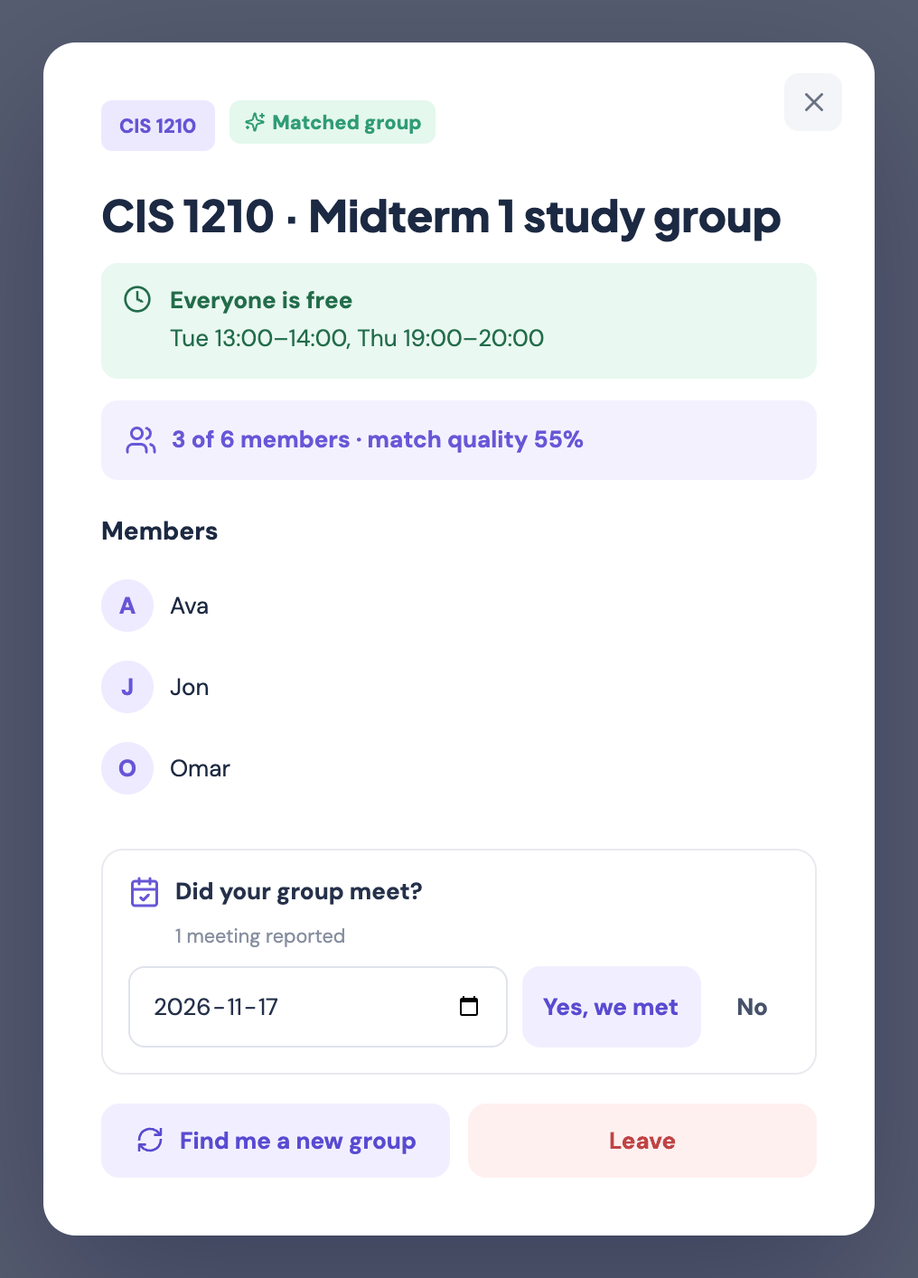
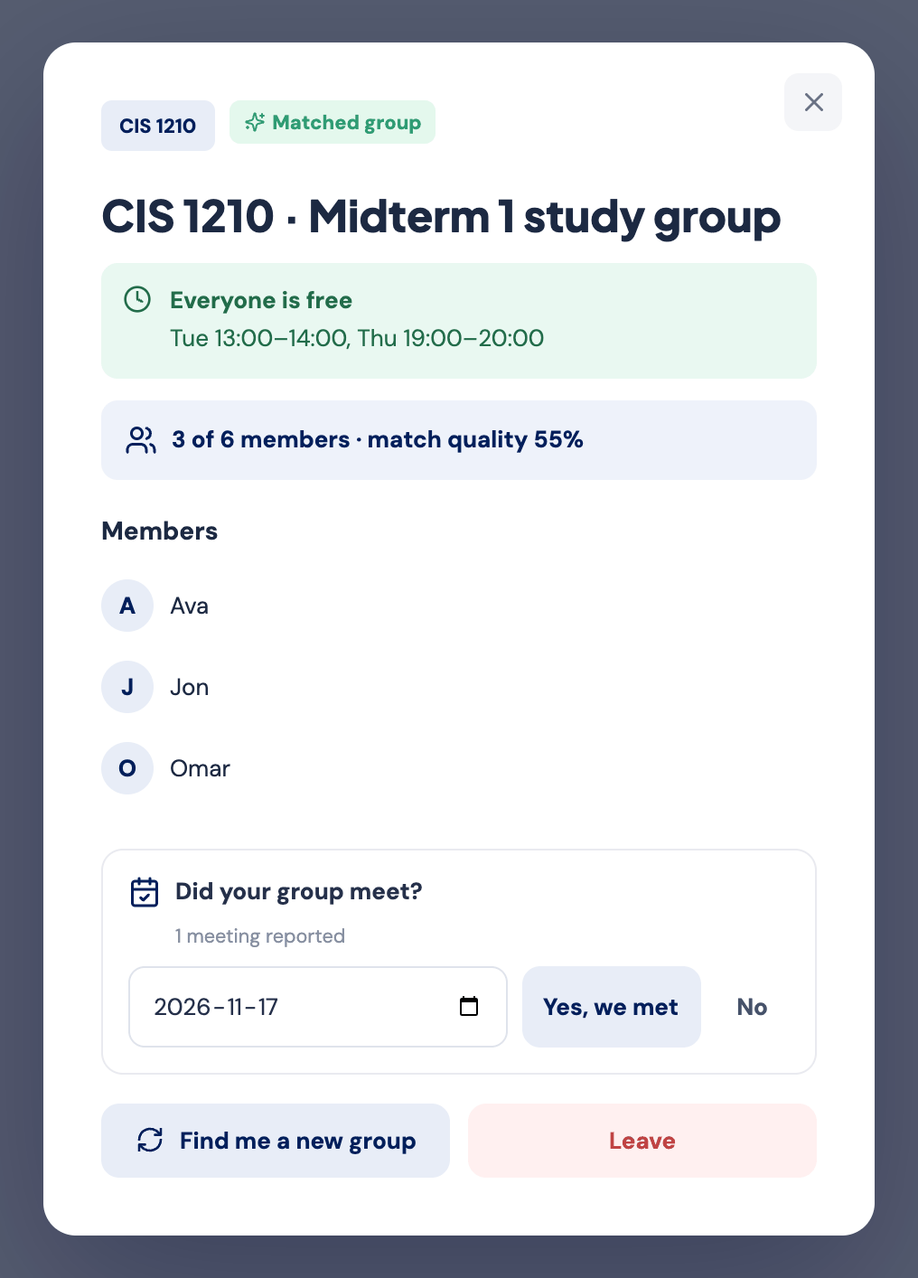
Switch to Penn red and blue color scheme

diff --git a/frontend/src/styles.css b/frontend/src/styles.css
@@ -1,5 +1,5 @@
 @import url('https://fonts.googleapis.com/css2?family=DM+Sans:wght@400;500;600;700;800&family=Plus+Jakarta+Sans:wght@400;500;600;700;800&display=swap');
-:root{font-family:'DM Sans',sans-serif;color:#1c2942;background:#f9fafc;font-synthesis:none}*{box-sizing:border-box}body{margin:0}button,input,select,textarea{font:inherit}button{cursor:pointer}button:disabled{cursor:not-allowed;opacity:.5}a{text-decoration:none;color:inherit}.container{max-width:1160px;margin:auto;padding:0 26px}.topbar{background:#fff;border-bottom:1px solid #e8eaf0}.nav{height:78px;display:flex;align-items:center;gap:50px}.brand{display:inline-flex;align-items:center;gap:8px;font-family:'Plus Jakarta Sans',sans-serif;font-size:21px;font-weight:800;white-space:nowrap;letter-spacing:-.7px}.brand>span:last-child{color:#6858dc;margin-left:-8px}.brand-icon{background:#6957dc;color:white;border-radius:11px;width:38px;height:38px;display:inline-flex;align-items:center;justify-content:center}.nav nav{display:flex;gap:28px}.nav-link{border:0;background:none;color:#647086;font-size:14px;font-weight:700;padding:12px 0}.nav-link.active{color:#6253d6}.nav-actions{display:flex;align-items:center;gap:10px;margin-left:auto}.hello{display:flex;align-items:center;gap:6px;font-size:13px;color:#59647b}.btn{border:0;display:inline-flex;align-items:center;justify-content:center;gap:9px;border-radius:10px;padding:12px 18px;font-weight:700;font-size:13px;transition:transform .15s,background .15s}.btn:hover:not(:disabled){transform:translateY(-1px)}.primary{background:#6958df;color:#fff;box-shadow:0 4px 10px #6958df22}.primary:hover{background:#5847cd}.ghost{background:transparent;color:#46526a}.secondary{background:#f1efff;color:#594bd1}.white{background:#fff;color:#5d4bcb}.outline-white{border:1px solid #ffffff65;color:#fff;background:#ffffff12}.hero{background:linear-gradient(115deg,#443a9e 0%,#6251c4 55%,#7e69d8 100%);overflow:hidden;color:#fff}.hero-inner{min-height:392px;display:flex;align-items:center;justify-content:space-between;gap:35px}.hero-content{padding:50px 0;max-width:600px}.eyebrow{display:inline-flex;gap:8px;align-items:center;background:#ffffff24;border:1px solid #ffffff25;padding:8px 13px;border-radius:25px;font-size:12px;font-weight:700;letter-spacing:.3px}.hero h1{font:800 clamp(36px,4.5vw,55px)/1.17 'Plus Jakarta Sans',sans-serif;letter-spacing:-2px;margin:22px 0 17px}.hero h1 em{font-style:normal;color:#c6c2ff}.hero p{font-size:16px;line-height:1.75;color:#e6e3ff;max-width:480px}.hero-buttons{display:flex;gap:12px;margin-top:26px}.hero-art{position:relative;min-width:350px;height:330px;display:grid;place-items:center}.orbit{width:210px;height:210px;background:#ffffff16;border:2px solid #ffffff40;border-radius:50%;display:grid;place-items:center;position:relative;box-shadow:0 0 0 28px #ffffff0a,0 0 0 60px #ffffff07}.orbit-bubble{position:absolute;background:#fff;color:#6858d7;width:50px;height:50px;border-radius:15px;display:grid;place-items:center;box-shadow:0 12px 30px #2015683d}.bubble-one{top:-20px;right:-15px}.bubble-two{bottom:-18px;left:-20px}.floating-card{position:absolute;background:#fff;color:#27304c;border-radius:13px;box-shadow:0 18px 40px #24136e3d;display:flex;gap:12px;align-items:center;padding:14px 16px;z-index:2}.floating-card strong{display:block;font-size:12px}.floating-card small{display:block;color:#8990a2;font-size:10px;margin-top:3px}.card-one{top:25px;left:0}.card-two{bottom:12px;right:0}.avatar{display:grid;place-items:center;width:35px;height:35px;border-radius:10px;background:#ebe8ff;color:#6d59dc;font-weight:800}.status-dot{background:#48c59a;width:9px;height:9px;border-radius:50%}.avatars{display:flex;padding-left:7px}.avatars i{display:grid;place-items:center;font-style:normal;font-size:10px;font-weight:700;width:27px;height:27px;margin-left:-7px;border:2px solid #fff;border-radius:50%;background:#f5d4c7;color:#934d46}.avatars i:nth-child(2){background:#d9d2fc;color:#5947a5}.avatars i:nth-child(3){background:#bde8d8;color:#30785d}.stats{display:flex;justify-content:center;gap:0;padding-top:28px;padding-bottom:28px;background:#fff;border-radius:0 0 16px 16px;box-shadow:0 8px 28px #20294507}.stats>div{flex:1;display:flex;align-items:center;justify-content:center;gap:13px;border-right:1px solid #e9eaf0}.stats>div:last-child{border:0}.stats strong{font-size:25px;font-weight:800;color:#6554d7}.stats span{font-size:12px;color:#8790a2}.discovery{padding-top:64px;padding-bottom:90px}.section-heading{display:flex;justify-content:space-between;align-items:end;gap:20px}.section-kicker{color:#7361dc;font-size:11px;font-weight:800;letter-spacing:1.7px}.section-heading h2{font:800 31px 'Plus Jakarta Sans',sans-serif;letter-spacing:-1.1px;margin:10px 0}.section-heading p{color:#8790a1;font-size:14px;margin:0}.filters{display:flex;gap:14px;margin:30px 0 23px}.search{display:flex;align-items:center;gap:12px;background:#fff;border:1px solid #e5e8ef;border-radius:10px;padding:0 15px;flex:1;color:#8b95a8}.search input{border:0;outline:0;padding:15px 0;width:100%;font-size:13px}.filters select{background:#fff;border:1px solid #e5e8ef;border-radius:10px;padding:0 15px;color:#546078;max-width:300px;font-size:13px}.group-grid{display:grid;grid-template-columns:repeat(3,1fr);gap:20px}.group-card{background:#fff;border:1px solid #e9eaf0;border-radius:16px;padding:23px;box-shadow:0 5px 20px #18243b05;transition:transform .15s,box-shadow .15s}.group-card:hover{transform:translateY(-3px);box-shadow:0 12px 28px #18243b12}.card-top{display:flex;justify-content:space-between;align-items:center}.course-pill{display:inline-block;font-size:11px;font-weight:800;padding:7px 10px;border-radius:6px;background:#ece9ff;color:#6554d5}.color-1{background:#e7f5ff;color:#3179bd}.color-2{background:#e4f8ed;color:#268b61}.color-3{background:#fff2e6;color:#c37b2b}.date{font-size:11px;color:#a2a9b8}.card-icon{display:grid;place-items:center;background:#f3f0ff;color:#725ddd;border-radius:12px;width:48px;height:48px;margin-top:24px}.group-card h3{font:800 18px 'Plus Jakarta Sans',sans-serif;margin:17px 0 8px;letter-spacing:-.3px}.group-card p{color:#8790a2;font-size:13px;line-height:1.7;min-height:44px;display:-webkit-box;-webkit-line-clamp:2;-webkit-box-orient:vertical;overflow:hidden}.card-bottom{display:flex;justify-content:space-between;align-items:center;border-top:1px solid #f0f1f5;padding-top:18px;margin-top:18px}.members{display:flex;align-items:center;gap:7px;color:#8993a4;font-size:12px}.view-link{display:flex;align-items:center;gap:5px;border:0;background:none;color:#6857d7;font-size:12px;font-weight:800}.empty{text-align:center;padding:70px 20px;background:#fff;border:1px dashed #d8d9e6;border-radius:16px;color:#8992a2}.empty svg{color:#7967df}.empty h3{color:#25304a}.pagination{display:flex;justify-content:center;align-items:center;gap:20px;margin-top:30px;font-size:13px}.pagination button{border:1px solid #e4e6ed;background:#fff;border-radius:8px;padding:9px 12px;display:flex;align-items:center;gap:4px}footer{background:#fff;border-top:1px solid #e9eaf0}.footer-inner{display:flex;justify-content:space-between;align-items:center;gap:15px;padding-top:25px;padding-bottom:25px;color:#98a0ad;font-size:12px}.footer-inner .brand{color:#26304a;font-size:16px}.footer-inner .brand-icon{width:29px;height:29px;border-radius:8px}.alert{display:flex;justify-content:space-between;align-items:center;padding:12px 15px;margin:15px 0;border-radius:8px;font-size:13px}.alert button{background:none;border:0}.alert.success{background:#e6f8ed;color:#226c4a}.alert.danger{background:#fff0f0;color:#ad3535}.modal-backdrop{position:fixed;inset:0;background:#17203ab8;z-index:10;display:grid;place-items:center;padding:20px;overflow-y:auto}.modal{position:relative;background:#fff;border-radius:18px;padding:32px;width:min(100%,460px);max-height:92vh;overflow:auto;box-shadow:0 30px 90px #0e123b60}.close{position:absolute;right:18px;top:17px;border:0;background:#f4f5f8;color:#697184;border-radius:8px;width:32px;height:32px;display:grid;place-items:center}.close svg{width:17px}.modal-mark{width:48px;height:48px;border-radius:13px;background:#eeeaff;color:#6754d7;display:grid;place-items:center}.modal h2{font:800 24px 'Plus Jakarta Sans',sans-serif;margin:18px 0 7px}.modal>p{color:#8992a2;font-size:13px;line-height:1.6;margin-bottom:22px}.modal form{display:grid;gap:15px}.modal form label{display:grid;gap:7px;font-size:12px;font-weight:700;color:#4b5770}.modal input,.modal textarea,.modal select{width:100%;border:1px solid #dfe3ec;border-radius:9px;padding:12px;color:#25304a;background:#fff;outline-color:#7968dd;font-size:13px}.full{width:100%;margin-top:7px}.switch{text-align:center;font-size:12px;color:#8791a3;margin-top:23px}.switch button{border:0;background:none;color:#6957d8;font-weight:800}.detail-title{margin-top:20px!important}.detail-info{display:flex;gap:8px;align-items:center;color:#6757d7;font-size:13px;font-weight:700;padding:13px;background:#f4f1ff;border-radius:9px}.modal h4{font-size:14px;margin-bottom:10px}.member-list{max-height:170px;overflow:auto;margin-bottom:22px}.member-list>div{display:flex;align-items:center;gap:9px;font-size:13px;padding:8px 0}.member-avatar{width:29px;height:29px;border-radius:50%;background:#eeeaff;color:#6755d7;display:grid;place-items:center;font-weight:800}.owner-tag{margin-left:auto;color:#8069d8;background:#f1edff;padding:4px 8px;border-radius:6px;font-size:10px}.detail-actions{display:flex;gap:10px}.detail-actions .btn{flex:1}.danger-btn{background:#fff0f0;color:#c04444}@media(max-width:900px){.hero-art{min-width:260px;transform:scale(.85)}.nav{gap:20px}.group-grid{grid-template-columns:repeat(2,1fr)}.hello{display:none}}@media(max-width:650px){.container{padding-left:18px;padding-right:18px}.nav{height:auto;min-height:68px;flex-wrap:wrap;padding-top:10px;padding-bottom:10px;gap:8px}.nav nav{order:3;width:100%;justify-content:center}.nav-actions{gap:2px}.nav-actions .btn{padding:9px;font-size:11px}.brand{font-size:17px}.hero-inner{min-height:auto}.hero-content{padding:55px 0}.hero-art{display:none}.hero h1{font-size:38px}.hero-buttons{flex-wrap:wrap}.stats{gap:8px}.stats>div{display:block;text-align:center;padding:5px}.stats strong{display:block;font-size:20px}.stats span{font-size:10px}.discovery{padding-top:42px}.section-heading h2{font-size:25px}.section-heading .create{padding:10px;font-size:11px}.filters{flex-direction:column}.filters select{max-width:none;padding:14px}.group-grid{grid-template-columns:1fr}.footer-inner{flex-wrap:wrap}.footer-inner>span:nth-child(2){display:none}}
-.match,.impact,.admin{padding-top:56px;padding-bottom:40px}.match-form{display:grid;grid-template-columns:minmax(0,340px) minmax(0,1fr);gap:28px;margin-top:26px;background:#fff;border:1px solid #e9eaf0;border-radius:16px;padding:26px}.match-fields{display:grid;gap:16px;align-content:start;min-width:0}.match-fields label{display:grid;gap:7px;font-size:12px;font-weight:700;color:#4b5770}.match-fields select{width:100%;min-width:0;text-overflow:ellipsis;border:1px solid #dfe3ec;border-radius:9px;padding:11px;background:#fff;color:#25304a}.segmented{display:flex;border:1px solid #dfe3ec;border-radius:9px;overflow:hidden}.segmented button{flex:1;border:0;background:#fff;padding:9px 6px;font-size:12px;color:#59647b;border-right:1px solid #eef0f4}.segmented button:last-child{border-right:0}.segmented button.on{background:#6958df;color:#fff;font-weight:700}.hint{color:#9aa1b0;font-size:11px}.exam-note{display:flex;gap:8px;align-items:center;background:#fff7e9;color:#9a6418;border-radius:9px;padding:10px 12px;font-size:12px;font-weight:600}.grid-label{font-size:12px;font-weight:700;color:#4b5770;margin-bottom:8px}.avail{display:grid;gap:3px;user-select:none;touch-action:none}.avail-row{display:grid;grid-template-columns:34px repeat(7,1fr);gap:3px}.avail-head span{font-size:11px;font-weight:700;color:#7d8699;text-align:center}.avail-hour{font-size:10px;color:#9aa1b0;text-align:right;padding-right:6px;line-height:18px}.cell{height:18px;border:0;border-radius:4px;background:#f1f2f6;padding:0}.cell:hover{background:#e2defc}.cell.on{background:#6958df}.cell:focus-visible{outline:2px solid #6958df;outline-offset:1px}.avail-count{color:#8790a2;font-size:11px;margin-top:6px}.request-list{display:grid;gap:10px;margin-top:22px}.request-card{display:flex;justify-content:space-between;align-items:center;gap:14px;flex-wrap:wrap;background:#fff;border:1px solid #e9eaf0;border-left:4px solid #c3bcf5;border-radius:12px;padding:14px 16px}.request-card.matched{border-left-color:#48c59a}.request-main{display:flex;gap:12px;align-items:center;font-size:14px}.request-main svg{color:#6958df}.request-card.matched .request-main svg{color:#2f9c74}.request-main small{display:block;color:#8790a2;font-size:12px;margin-top:3px}.request-actions{display:flex;gap:6px;flex-wrap:wrap}.request-actions .btn{padding:9px 12px}.match-tag{display:inline-flex;align-items:center;gap:4px;font-size:11px;font-weight:800;color:#2f9c74;background:#e4f8ed;border-radius:6px;padding:5px 8px}.match-tag.inline{margin-left:8px}.shared-time{display:flex;gap:10px;align-items:flex-start;background:#e9f8f1;color:#226c4a;border-radius:9px;padding:12px;margin:12px 0;font-size:13px}.shared-time strong,.shared-time span{display:block}.shared-time span{margin-top:3px;line-height:1.5}.checkin{border:1px solid #e9eaf0;border-radius:12px;padding:14px;margin-bottom:16px;font-size:13px}.checkin>div:first-child{display:flex;gap:8px;align-items:center;flex-wrap:wrap;color:#6757d7}.checkin strong{color:#25304a}.checkin small{color:#8790a2;width:100%;padding-left:26px}.checkin-row{display:flex;gap:8px;margin-top:10px}.checkin-row input{flex:1;min-width:0}.checkin-row .btn{padding:10px 12px}.full.secondary{width:100%}.modal.wide{width:min(100%,640px)}.metric-grid{display:grid;grid-template-columns:repeat(4,1fr);gap:16px;margin-top:26px}.metric{background:#fff;border:1px solid #e9eaf0;border-radius:14px;padding:20px}.metric strong{display:block;font:800 30px 'Plus Jakarta Sans',sans-serif;color:#6554d7}.metric span{display:block;font-size:13px;font-weight:700;margin-top:6px}.metric small{display:block;color:#8790a2;font-size:11px;margin-top:6px;line-height:1.5}.algo-card{background:#fff;border:1px solid #e9eaf0;border-radius:14px;padding:22px;margin-top:16px}.algo-card h3{margin:0 0 8px;font:800 17px 'Plus Jakarta Sans',sans-serif}.algo-card p{color:#6b7488;font-size:13px;line-height:1.7;margin:0}.algo-stats{display:grid;gap:8px;margin-top:14px;font-size:13px}.algo-stats span{display:inline-block;min-width:170px;color:#8790a2}.algo-stats em{font-style:normal;color:#2f9c74;font-weight:800;margin-left:6px}.muted{margin-top:10px!important}.admin-form{display:flex;gap:8px;flex-wrap:wrap;margin:20px 0}.admin-form select,.admin-form input{border:1px solid #dfe3ec;border-radius:9px;padding:10px;background:#fff}.table-wrap{overflow-x:auto;background:#fff;border:1px solid #e9eaf0;border-radius:12px}.runs{border-collapse:collapse;width:100%;font-size:12px;white-space:nowrap}.runs th,.runs td{padding:9px 12px;text-align:left;border-bottom:1px solid #f0f1f5}.runs th{color:#7d8699;font-weight:700}
+:root{font-family:'DM Sans',sans-serif;color:#1c2942;background:#f9fafc;font-synthesis:none}*{box-sizing:border-box}body{margin:0}button,input,select,textarea{font:inherit}button{cursor:pointer}button:disabled{cursor:not-allowed;opacity:.5}a{text-decoration:none;color:inherit}.container{max-width:1160px;margin:auto;padding:0 26px}.topbar{background:#fff;border-bottom:1px solid #e8eaf0}.nav{height:78px;display:flex;align-items:center;gap:50px}.brand{display:inline-flex;align-items:center;gap:8px;font-family:'Plus Jakarta Sans',sans-serif;font-size:21px;font-weight:800;white-space:nowrap;letter-spacing:-.7px}.brand>span:last-child{color:#990000;margin-left:-8px}.brand-icon{background:#990000;color:white;border-radius:11px;width:38px;height:38px;display:inline-flex;align-items:center;justify-content:center}.nav nav{display:flex;gap:28px}.nav-link{border:0;background:none;color:#647086;font-size:14px;font-weight:700;padding:12px 0}.nav-link.active{color:#990000}.nav-actions{display:flex;align-items:center;gap:10px;margin-left:auto}.hello{display:flex;align-items:center;gap:6px;font-size:13px;color:#59647b}.btn{border:0;display:inline-flex;align-items:center;justify-content:center;gap:9px;border-radius:10px;padding:12px 18px;font-weight:700;font-size:13px;transition:transform .15s,background .15s}.btn:hover:not(:disabled){transform:translateY(-1px)}.primary{background:#011f5b;color:#fff;box-shadow:0 4px 10px #011f5b22}.primary:hover{background:#0a2f7a}.ghost{background:transparent;color:#46526a}.secondary{background:#e8edf7;color:#011f5b}.white{background:#fff;color:#011f5b}.outline-white{border:1px solid #ffffff65;color:#fff;background:#ffffff12}.hero{background:linear-gradient(115deg,#011f5b 0%,#0b2d6e 55%,#1c4185 100%);overflow:hidden;color:#fff}.hero-inner{min-height:392px;display:flex;align-items:center;justify-content:space-between;gap:35px}.hero-content{padding:50px 0;max-width:600px}.eyebrow{display:inline-flex;gap:8px;align-items:center;background:#ffffff24;border:1px solid #ffffff25;padding:8px 13px;border-radius:25px;font-size:12px;font-weight:700;letter-spacing:.3px}.hero h1{font:800 clamp(36px,4.5vw,55px)/1.17 'Plus Jakarta Sans',sans-serif;letter-spacing:-2px;margin:22px 0 17px}.hero h1 em{font-style:normal;color:#ffb3b3}.hero p{font-size:16px;line-height:1.75;color:#dfe6f5;max-width:480px}.hero-buttons{display:flex;gap:12px;margin-top:26px}.hero-art{position:relative;min-width:350px;height:330px;display:grid;place-items:center}.orbit{width:210px;height:210px;background:#ffffff16;border:2px solid #ffffff40;border-radius:50%;display:grid;place-items:center;position:relative;box-shadow:0 0 0 28px #ffffff0a,0 0 0 60px #ffffff07}.orbit-bubble{position:absolute;background:#fff;color:#011f5b;width:50px;height:50px;border-radius:15px;display:grid;place-items:center;box-shadow:0 12px 30px #011f5b3d}.bubble-one{top:-20px;right:-15px}.bubble-two{bottom:-18px;left:-20px}.floating-card{position:absolute;background:#fff;color:#27304c;border-radius:13px;box-shadow:0 18px 40px #011f5b3d;display:flex;gap:12px;align-items:center;padding:14px 16px;z-index:2}.floating-card strong{display:block;font-size:12px}.floating-card small{display:block;color:#8990a2;font-size:10px;margin-top:3px}.card-one{top:25px;left:0}.card-two{bottom:12px;right:0}.avatar{display:grid;place-items:center;width:35px;height:35px;border-radius:10px;background:#e8edf7;color:#011f5b;font-weight:800}.status-dot{background:#48c59a;width:9px;height:9px;border-radius:50%}.avatars{display:flex;padding-left:7px}.avatars i{display:grid;place-items:center;font-style:normal;font-size:10px;font-weight:700;width:27px;height:27px;margin-left:-7px;border:2px solid #fff;border-radius:50%;background:#f5d4c7;color:#934d46}.avatars i:nth-child(2){background:#dfe6f5;color:#011f5b}.avatars i:nth-child(3){background:#bde8d8;color:#30785d}.stats{display:flex;justify-content:center;gap:0;padding-top:28px;padding-bottom:28px;background:#fff;border-radius:0 0 16px 16px;box-shadow:0 8px 28px #20294507}.stats>div{flex:1;display:flex;align-items:center;justify-content:center;gap:13px;border-right:1px solid #e9eaf0}.stats>div:last-child{border:0}.stats strong{font-size:25px;font-weight:800;color:#011f5b}.stats span{font-size:12px;color:#8790a2}.discovery{padding-top:64px;padding-bottom:90px}.section-heading{display:flex;justify-content:space-between;align-items:end;gap:20px}.section-kicker{color:#990000;font-size:11px;font-weight:800;letter-spacing:1.7px}.section-heading h2{font:800 31px 'Plus Jakarta Sans',sans-serif;letter-spacing:-1.1px;margin:10px 0}.section-heading p{color:#8790a1;font-size:14px;margin:0}.filters{display:flex;gap:14px;margin:30px 0 23px}.search{display:flex;align-items:center;gap:12px;background:#fff;border:1px solid #e5e8ef;border-radius:10px;padding:0 15px;flex:1;color:#8b95a8}.search input{border:0;outline:0;padding:15px 0;width:100%;font-size:13px}.filters select{background:#fff;border:1px solid #e5e8ef;border-radius:10px;padding:0 15px;color:#546078;max-width:300px;font-size:13px}.group-grid{display:grid;grid-template-columns:repeat(3,1fr);gap:20px}.group-card{background:#fff;border:1px solid #e9eaf0;border-radius:16px;padding:23px;box-shadow:0 5px 20px #18243b05;transition:transform .15s,box-shadow .15s}.group-card:hover{transform:translateY(-3px);box-shadow:0 12px 28px #18243b12}.card-top{display:flex;justify-content:space-between;align-items:center}.course-pill{display:inline-block;font-size:11px;font-weight:800;padding:7px 10px;border-radius:6px;background:#e8edf7;color:#011f5b}.color-1{background:#fbeeee;color:#990000}.color-2{background:#e4f8ed;color:#268b61}.color-3{background:#fff2e6;color:#c37b2b}.date{font-size:11px;color:#a2a9b8}.card-icon{display:grid;place-items:center;background:#e8edf7;color:#011f5b;border-radius:12px;width:48px;height:48px;margin-top:24px}.group-card h3{font:800 18px 'Plus Jakarta Sans',sans-serif;margin:17px 0 8px;letter-spacing:-.3px}.group-card p{color:#8790a2;font-size:13px;line-height:1.7;min-height:44px;display:-webkit-box;-webkit-line-clamp:2;-webkit-box-orient:vertical;overflow:hidden}.card-bottom{display:flex;justify-content:space-between;align-items:center;border-top:1px solid #f0f1f5;padding-top:18px;margin-top:18px}.members{display:flex;align-items:center;gap:7px;color:#8993a4;font-size:12px}.view-link{display:flex;align-items:center;gap:5px;border:0;background:none;color:#990000;font-size:12px;font-weight:800}.empty{text-align:center;padding:70px 20px;background:#fff;border:1px dashed #d8d9e6;border-radius:16px;color:#8992a2}.empty svg{color:#011f5b}.empty h3{color:#25304a}.pagination{display:flex;justify-content:center;align-items:center;gap:20px;margin-top:30px;font-size:13px}.pagination button{border:1px solid #e4e6ed;background:#fff;border-radius:8px;padding:9px 12px;display:flex;align-items:center;gap:4px}footer{background:#fff;border-top:1px solid #e9eaf0}.footer-inner{display:flex;justify-content:space-between;align-items:center;gap:15px;padding-top:25px;padding-bottom:25px;color:#98a0ad;font-size:12px}.footer-inner .brand{color:#26304a;font-size:16px}.footer-inner .brand-icon{width:29px;height:29px;border-radius:8px}.alert{display:flex;justify-content:space-between;align-items:center;padding:12px 15px;margin:15px 0;border-radius:8px;font-size:13px}.alert button{background:none;border:0}.alert.success{background:#e6f8ed;color:#226c4a}.alert.danger{background:#fff0f0;color:#ad3535}.modal-backdrop{position:fixed;inset:0;background:#17203ab8;z-index:10;display:grid;place-items:center;padding:20px;overflow-y:auto}.modal{position:relative;background:#fff;border-radius:18px;padding:32px;width:min(100%,460px);max-height:92vh;overflow:auto;box-shadow:0 30px 90px #0e123b60}.close{position:absolute;right:18px;top:17px;border:0;background:#f4f5f8;color:#697184;border-radius:8px;width:32px;height:32px;display:grid;place-items:center}.close svg{width:17px}.modal-mark{width:48px;height:48px;border-radius:13px;background:#e8edf7;color:#011f5b;display:grid;place-items:center}.modal h2{font:800 24px 'Plus Jakarta Sans',sans-serif;margin:18px 0 7px}.modal>p{color:#8992a2;font-size:13px;line-height:1.6;margin-bottom:22px}.modal form{display:grid;gap:15px}.modal form label{display:grid;gap:7px;font-size:12px;font-weight:700;color:#4b5770}.modal input,.modal textarea,.modal select{width:100%;border:1px solid #dfe3ec;border-radius:9px;padding:12px;color:#25304a;background:#fff;outline-color:#011f5b;font-size:13px}.full{width:100%;margin-top:7px}.switch{text-align:center;font-size:12px;color:#8791a3;margin-top:23px}.switch button{border:0;background:none;color:#990000;font-weight:800}.detail-title{margin-top:20px!important}.detail-info{display:flex;gap:8px;align-items:center;color:#011f5b;font-size:13px;font-weight:700;padding:13px;background:#eef2fa;border-radius:9px}.modal h4{font-size:14px;margin-bottom:10px}.member-list{max-height:170px;overflow:auto;margin-bottom:22px}.member-list>div{display:flex;align-items:center;gap:9px;font-size:13px;padding:8px 0}.member-avatar{width:29px;height:29px;border-radius:50%;background:#e8edf7;color:#011f5b;display:grid;place-items:center;font-weight:800}.owner-tag{margin-left:auto;color:#990000;background:#fbeeee;padding:4px 8px;border-radius:6px;font-size:10px}.detail-actions{display:flex;gap:10px}.detail-actions .btn{flex:1}.danger-btn{background:#fff0f0;color:#c04444}@media(max-width:900px){.hero-art{min-width:260px;transform:scale(.85)}.nav{gap:20px}.group-grid{grid-template-columns:repeat(2,1fr)}.hello{display:none}}@media(max-width:650px){.container{padding-left:18px;padding-right:18px}.nav{height:auto;min-height:68px;flex-wrap:wrap;padding-top:10px;padding-bottom:10px;gap:8px}.nav nav{order:3;width:100%;justify-content:center}.nav-actions{gap:2px}.nav-actions .btn{padding:9px;font-size:11px}.brand{font-size:17px}.hero-inner{min-height:auto}.hero-content{padding:55px 0}.hero-art{display:none}.hero h1{font-size:38px}.hero-buttons{flex-wrap:wrap}.stats{gap:8px}.stats>div{display:block;text-align:center;padding:5px}.stats strong{display:block;font-size:20px}.stats span{font-size:10px}.discovery{padding-top:42px}.section-heading h2{font-size:25px}.section-heading .create{padding:10px;font-size:11px}.filters{flex-direction:column}.filters select{max-width:none;padding:14px}.group-grid{grid-template-columns:1fr}.footer-inner{flex-wrap:wrap}.footer-inner>span:nth-child(2){display:none}}
+.match,.impact,.admin{padding-top:56px;padding-bottom:40px}.match-form{display:grid;grid-template-columns:minmax(0,340px) minmax(0,1fr);gap:28px;margin-top:26px;background:#fff;border:1px solid #e9eaf0;border-radius:16px;padding:26px}.match-fields{display:grid;gap:16px;align-content:start;min-width:0}.match-fields label{display:grid;gap:7px;font-size:12px;font-weight:700;color:#4b5770}.match-fields select{width:100%;min-width:0;text-overflow:ellipsis;border:1px solid #dfe3ec;border-radius:9px;padding:11px;background:#fff;color:#25304a}.segmented{display:flex;border:1px solid #dfe3ec;border-radius:9px;overflow:hidden}.segmented button{flex:1;border:0;background:#fff;padding:9px 6px;font-size:12px;color:#59647b;border-right:1px solid #eef0f4}.segmented button:last-child{border-right:0}.segmented button.on{background:#011f5b;color:#fff;font-weight:700}.hint{color:#9aa1b0;font-size:11px}.exam-note{display:flex;gap:8px;align-items:center;background:#fff7e9;color:#9a6418;border-radius:9px;padding:10px 12px;font-size:12px;font-weight:600}.grid-label{font-size:12px;font-weight:700;color:#4b5770;margin-bottom:8px}.avail{display:grid;gap:3px;user-select:none;touch-action:none}.avail-row{display:grid;grid-template-columns:34px repeat(7,1fr);gap:3px}.avail-head span{font-size:11px;font-weight:700;color:#7d8699;text-align:center}.avail-hour{font-size:10px;color:#9aa1b0;text-align:right;padding-right:6px;line-height:18px}.cell{height:18px;border:0;border-radius:4px;background:#f1f2f6;padding:0}.cell:hover{background:#dfe6f5}.cell.on{background:#011f5b}.cell:focus-visible{outline:2px solid #011f5b;outline-offset:1px}.avail-count{color:#8790a2;font-size:11px;margin-top:6px}.request-list{display:grid;gap:10px;margin-top:22px}.request-card{display:flex;justify-content:space-between;align-items:center;gap:14px;flex-wrap:wrap;background:#fff;border:1px solid #e9eaf0;border-left:4px solid #b8c6e3;border-radius:12px;padding:14px 16px}.request-card.matched{border-left-color:#48c59a}.request-main{display:flex;gap:12px;align-items:center;font-size:14px}.request-main svg{color:#011f5b}.request-card.matched .request-main svg{color:#2f9c74}.request-main small{display:block;color:#8790a2;font-size:12px;margin-top:3px}.request-actions{display:flex;gap:6px;flex-wrap:wrap}.request-actions .btn{padding:9px 12px}.match-tag{display:inline-flex;align-items:center;gap:4px;font-size:11px;font-weight:800;color:#2f9c74;background:#e4f8ed;border-radius:6px;padding:5px 8px}.match-tag.inline{margin-left:8px}.shared-time{display:flex;gap:10px;align-items:flex-start;background:#e9f8f1;color:#226c4a;border-radius:9px;padding:12px;margin:12px 0;font-size:13px}.shared-time strong,.shared-time span{display:block}.shared-time span{margin-top:3px;line-height:1.5}.checkin{border:1px solid #e9eaf0;border-radius:12px;padding:14px;margin-bottom:16px;font-size:13px}.checkin>div:first-child{display:flex;gap:8px;align-items:center;flex-wrap:wrap;color:#011f5b}.checkin strong{color:#25304a}.checkin small{color:#8790a2;width:100%;padding-left:26px}.checkin-row{display:flex;gap:8px;margin-top:10px}.checkin-row input{flex:1;min-width:0}.checkin-row .btn{padding:10px 12px}.full.secondary{width:100%}.modal.wide{width:min(100%,640px)}.metric-grid{display:grid;grid-template-columns:repeat(4,1fr);gap:16px;margin-top:26px}.metric{background:#fff;border:1px solid #e9eaf0;border-radius:14px;padding:20px}.metric strong{display:block;font:800 30px 'Plus Jakarta Sans',sans-serif;color:#011f5b}.metric span{display:block;font-size:13px;font-weight:700;margin-top:6px}.metric small{display:block;color:#8790a2;font-size:11px;margin-top:6px;line-height:1.5}.algo-card{background:#fff;border:1px solid #e9eaf0;border-radius:14px;padding:22px;margin-top:16px}.algo-card h3{margin:0 0 8px;font:800 17px 'Plus Jakarta Sans',sans-serif}.algo-card p{color:#6b7488;font-size:13px;line-height:1.7;margin:0}.algo-stats{display:grid;gap:8px;margin-top:14px;font-size:13px}.algo-stats span{display:inline-block;min-width:170px;color:#8790a2}.algo-stats em{font-style:normal;color:#2f9c74;font-weight:800;margin-left:6px}.muted{margin-top:10px!important}.admin-form{display:flex;gap:8px;flex-wrap:wrap;margin:20px 0}.admin-form select,.admin-form input{border:1px solid #dfe3ec;border-radius:9px;padding:10px;background:#fff}.table-wrap{overflow-x:auto;background:#fff;border:1px solid #e9eaf0;border-radius:12px}.runs{border-collapse:collapse;width:100%;font-size:12px;white-space:nowrap}.runs th,.runs td{padding:9px 12px;text-align:left;border-bottom:1px solid #f0f1f5}.runs th{color:#7d8699;font-weight:700}
 @media(max-width:900px){.match-form{grid-template-columns:1fr}.metric-grid{grid-template-columns:repeat(2,1fr)}}@media(max-width:650px){.match-form{padding:16px}.metric-grid{grid-template-columns:1fr}.nav nav{gap:14px;overflow-x:auto}.request-actions{width:100%}.checkin-row{flex-wrap:wrap}.algo-stats span{display:block}}
 .alert.info{background:#eef3ff;color:#2f4fa8;flex-wrap:wrap;gap:8px}.link-btn{border:0;background:none;color:#2f4fa8;font-weight:800;text-decoration:underline;padding:0}.field-hint{color:#8a92a4;font-weight:500;font-size:11px;line-height:1.5}
